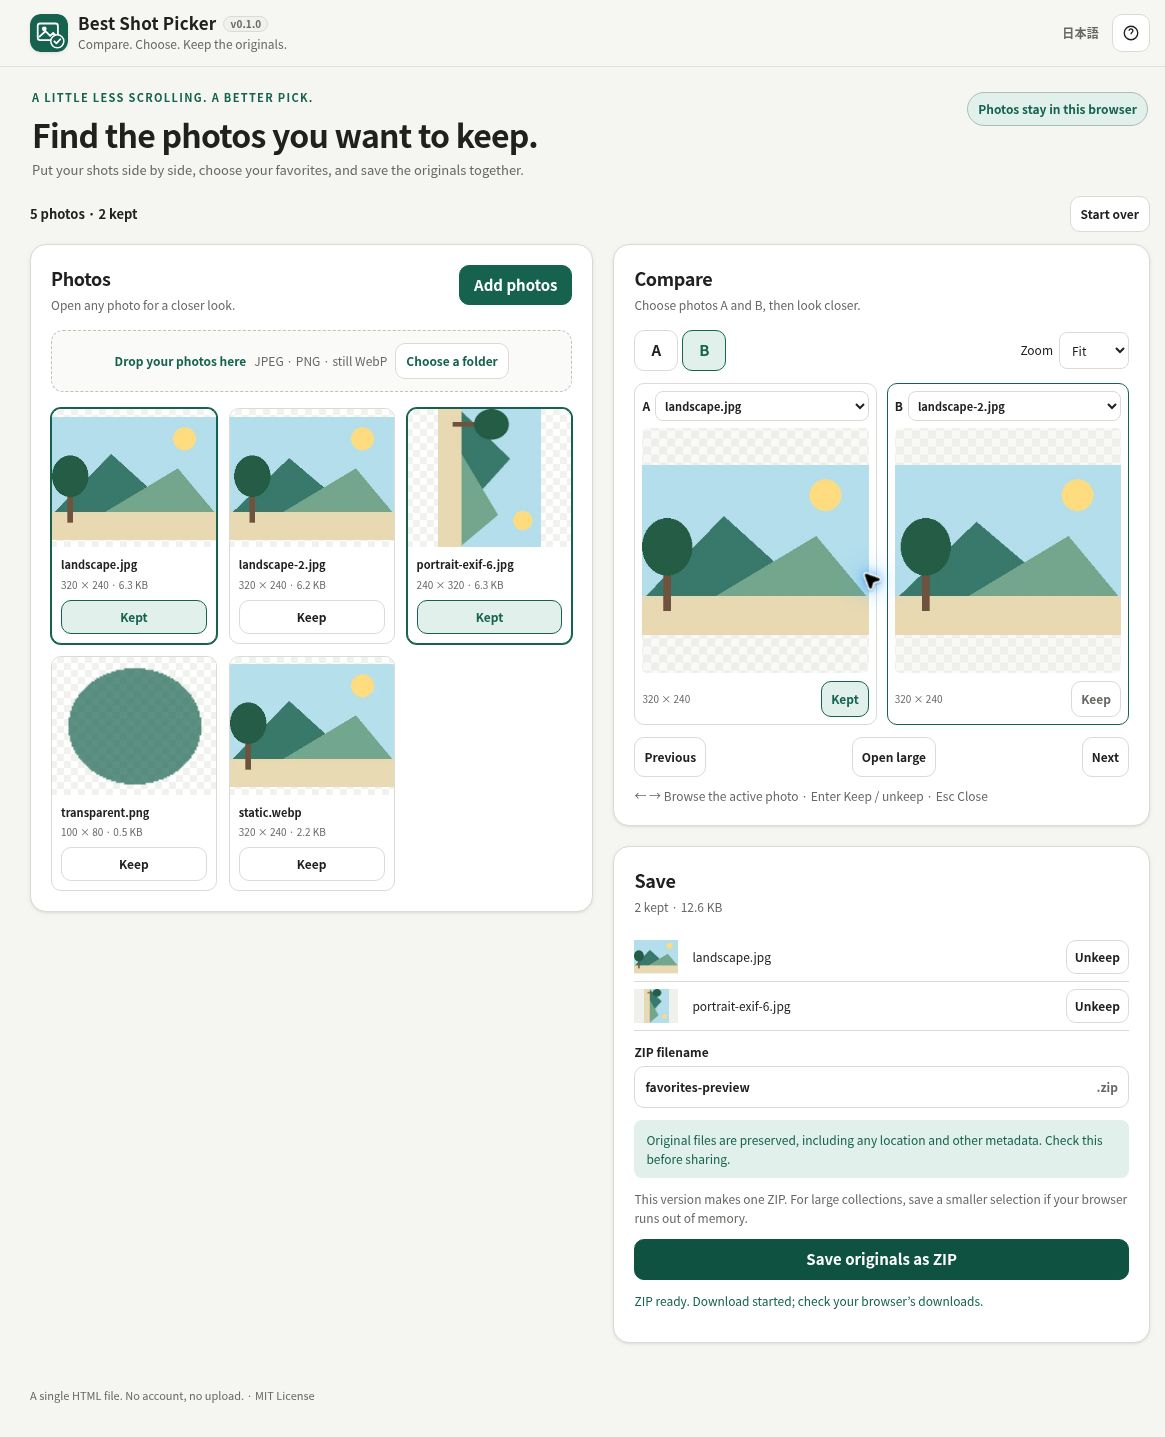
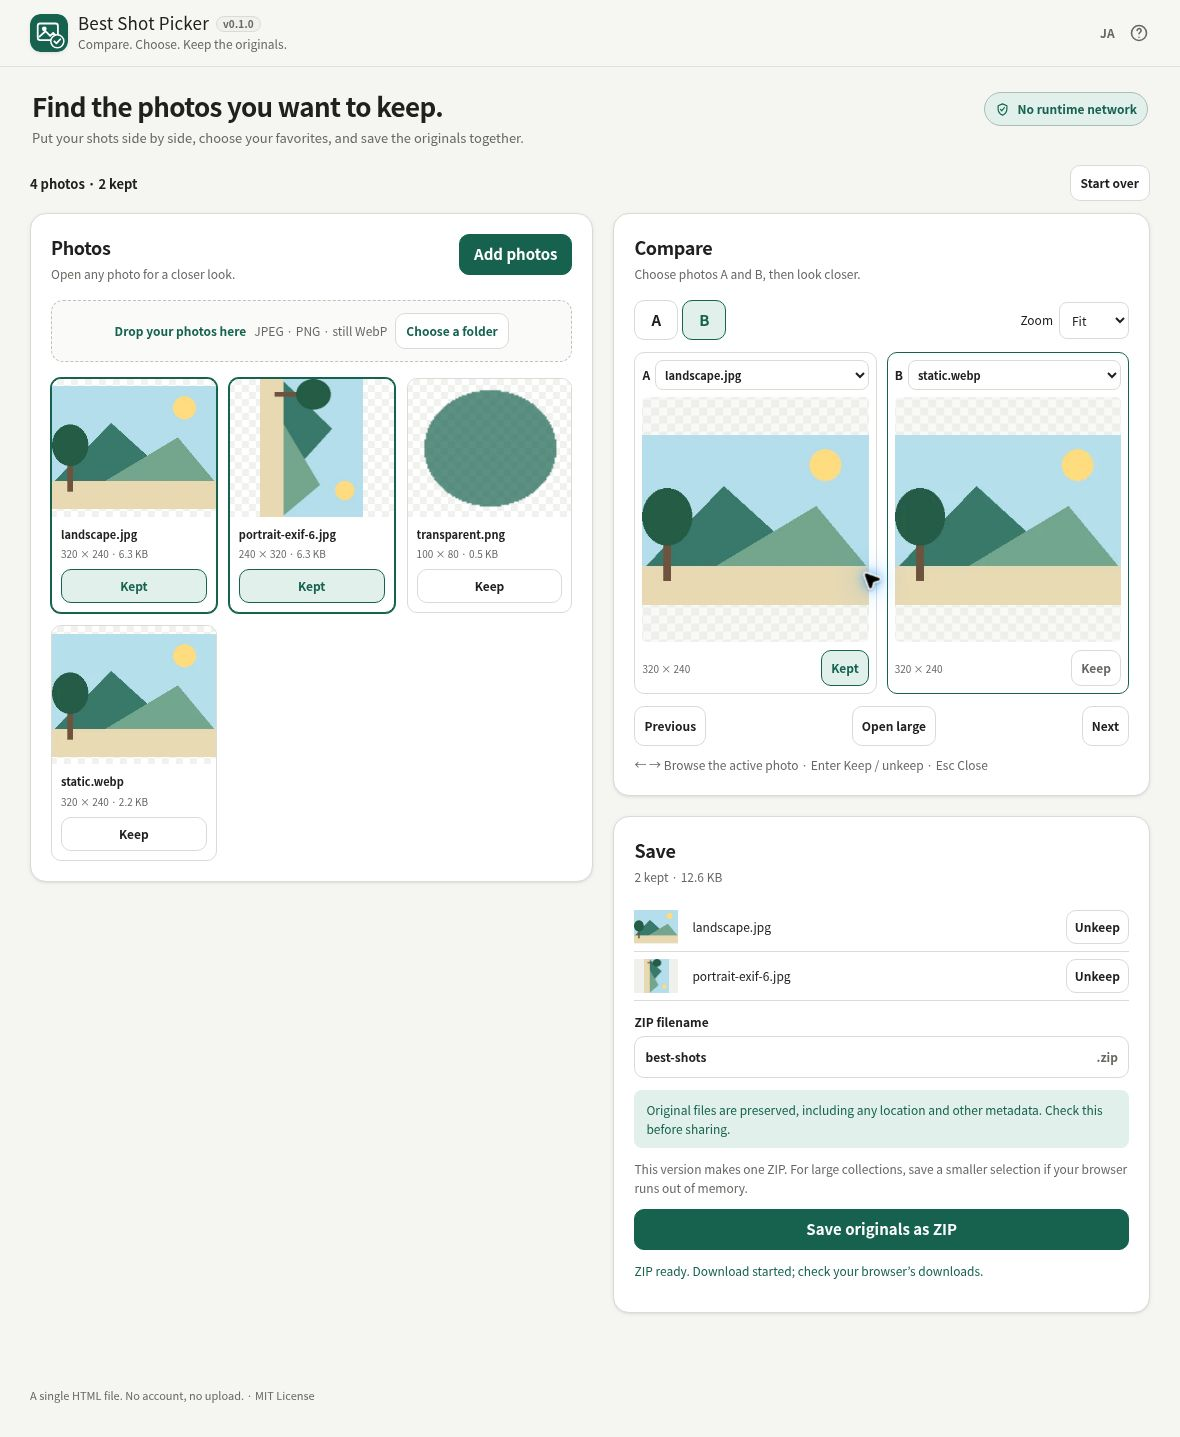
test: record aligned preview screenshots and mobile coverage

diff --git a/docs/VALIDATION.md b/docs/VALIDATION.md
@@ -8,7 +8,7 @@ Date: 2026-10-16. Scope: manual-selection milestone only. Fixtures: project-crea
 - Independent Python `zipfile` extraction: original-byte hashes, CRC, names, and STORE pass.
 - Canonical PowerShell 7.6.7 syntax preflight and repository check: pass in the Linux executor, using a `tar.exe` name for installed tar.
 - Normal, self-extracting, and root HTML generation: pass; self-extract payload round-trip and canonical icon identity pass.
-- CI Chromium acceptance: both generated `file://` variants pass. The d84cdff run passed 50 browser acceptance checks, including original-byte downloads, oriented geometry, selection/Undo, comparison, Japanese/English, 320/360/390px layouts, short-height dialogs, deterministic cancel/retry/reset races, giant-image rejection, reload, retained status localization, and zero HTTP(S) requests. [Run evidence](https://github.com/ttomohisa/htmlapps-best-shot-picker/actions/runs/38857745699).
+- CI Chromium acceptance: both generated `file://` variants pass. The ae69c707 run passed 52 browser acceptance checks, including original-byte downloads, oriented geometry, selection/Undo, comparison, Japanese/English, 320/360/390px layouts, short-height dialogs, deterministic cancel/retry/reset races, giant-image rejection, reload, retained status localization, and zero HTTP(S) requests. [Run evidence](https://github.com/ttomohisa/htmlapps-best-shot-picker/actions/runs/38859746073).
 - Hosted PR preview: synthetic JPEG/PNG/WebP intake, EXIF display dimensions, A/B comparison, Keep/Undo, Japanese/English, editable ZIP naming and download verified in the dot cloud Chrome browser. The downloaded two-entry ZIP passes independent Python CRC and exact original-byte checks. Actual Japanese/English screenshots are saved in `assets/`. Browser-extension diagnostic errors were observed; no application-origin errors were observed. No-runtime-request coverage is the automated file-mode CI check, not a claim about unrelated browser-extension traffic.
 - Independent review: export/header core and UI state/cancellation reviewed; modal Undo, short-screen overlap, off-screen Undo and focus-restoration findings resolved. The latest language-status correction has focused regression coverage.
 
@@ -29,4 +29,4 @@ v0.1 requires BSP-001–008, 011–015, 037–042, 046, 051–054. Core tests co
 
 ## Template alignment regression
 
-The header, Hero, and local-processing badge use the canonical htmlapps-template shell (cb908779). The existing subtitle is unchanged. Browser regression assertions cover desktop shell widths and font sizes, the borderless help control, shield icon, EN / JA labels, and narrow-screen typography/version visibility. Local core tests and the canonical syntax/build checks pass; the new browser assertions and refreshed screenshots are pending CI/hosted-preview verification.
+The header, Hero, and local-processing badge use the canonical htmlapps-template shell (cb908779). The existing subtitle is unchanged. Browser regression assertions cover desktop shell widths and font sizes, the borderless help control, shield icon, EN / JA labels, and narrow-screen typography/version visibility. Local core tests and canonical syntax/build checks pass. All 52 browser assertions pass in CI at ae69c707. The same-head HTTPS preview was checked with four synthetic images, two kept originals, A/B comparison, a renamed ZIP, and Japanese/English switching. Independent Python extraction confirms both downloaded files match their original bytes and CRC. Refreshed Japanese/English README screenshots were captured from that hosted preview and visually compared with the canonical template; CI also retains desktop screenshots. Narrow-width screenshot capture is included for continued visual regression review.
